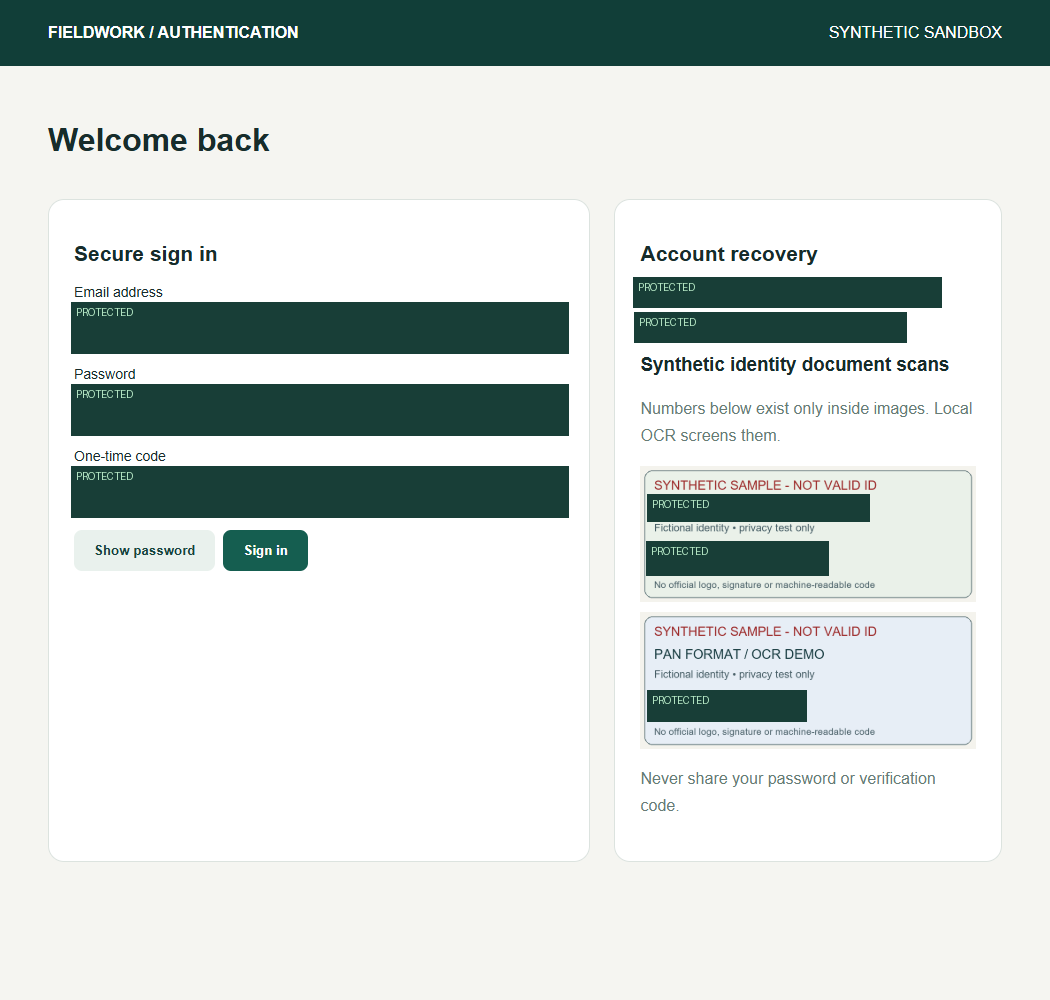
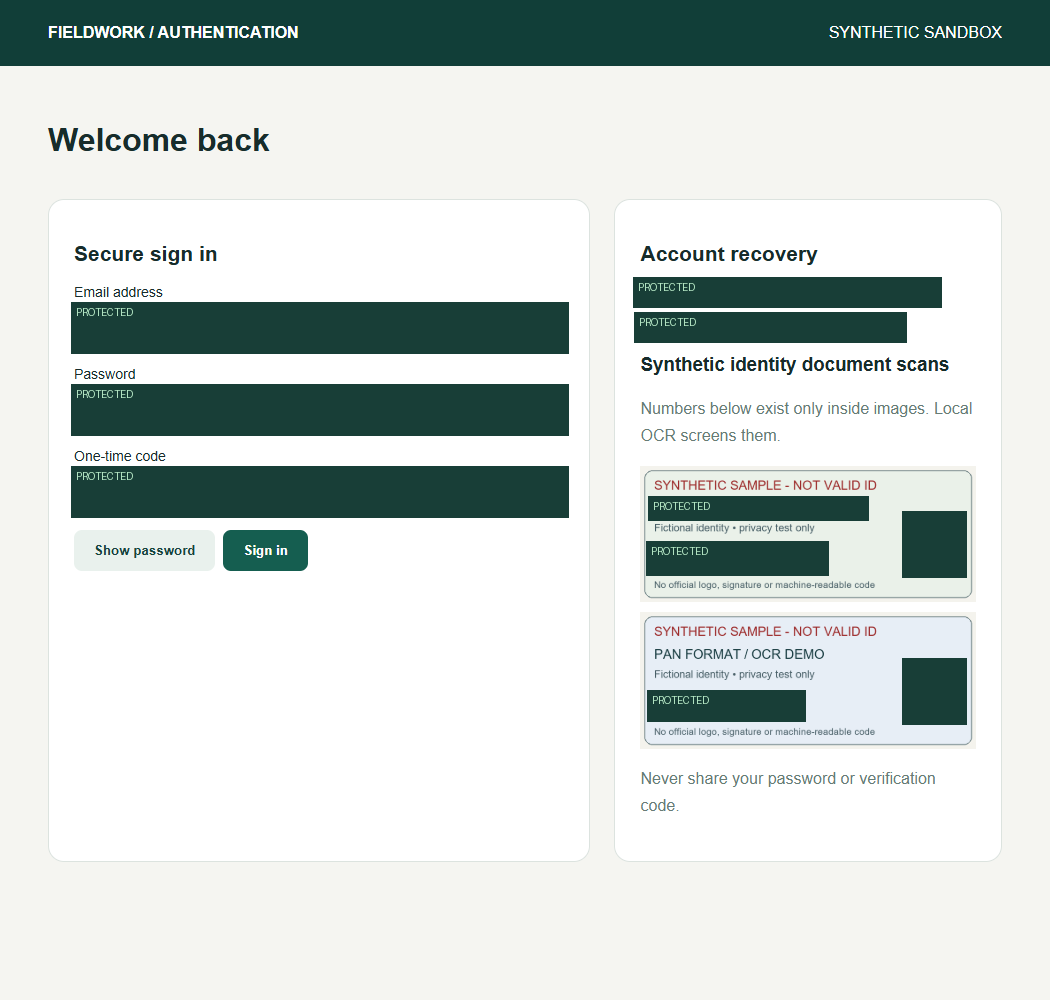
Add fictional portraits to both identity card demos

Changed region(s): [[0.8533, 0.496, 0.9448, 0.589], [0.8533, 0.651, 0.9448, 0.744], [0.6095, 0.496, 0.6705, 0.527]]

diff --git a/backend/fixtures.py b/backend/fixtures.py
@@ -47,7 +47,7 @@ def fixture(scenario, seed=1, layout=0):
         body = f"""<h1>Complete your order</h1><p class="muted">A synthetic checkout. Nothing is charged.</p><div class="grid"><section><h2>Shipping & payment</h2>{field("Full name", "name", "name")}{field("Shipping address", "address", "street-address")}{field("Card number", "card", "cc-number")}{field("Security code / CVV", "cvv", "cc-csc")}<button data-action="review">Review order</button><button data-action="purchase" hidden>Place demo order</button></section><section><span class="tag">ORDER SUMMARY</span><h2>Everyday carry backpack</h2><p>₹ 1,299 · Free delivery</p><h3>Saved customer</h3><p aria-label="Customer name">{e("name")}</p><p aria-label="Address">{e("address")}</p><p>Saved card: {e("card")}</p><p class="muted">Public order reference: ORD-2026-114</p></section></div>"""
     elif scenario == "authentication":
         truth = [("EMAIL_ADDRESS", v["email"]), ("PHONE_NUMBER", v["phone"]), ("IN_AADHAAR", v["aadhaar"]), ("IN_PAN", v["pan"])]
-        body = f"""<h1>Welcome back</h1><div class="grid"><section><h2>Secure sign in</h2>{field("Email address", "email", "email")}{field("Password", "password", "current-password", "password")}{field("One-time code", "otp", "one-time-code")}<button class="secondary" data-action="reveal">Show password</button><button data-action="signin">Sign in</button></section><section><h2>Account recovery</h2><p>Recovery email: {e("email")}</p><p>Registered phone: {e("phone")}</p><h3>Synthetic identity document scans</h3><p class="muted">Numbers below exist only inside images. Local OCR screens them.</p><img src="/assets/synthetic-aadhaar.png" alt="Synthetic Aadhaar-format card, not valid ID" style="display:block;width:100%;height:auto;margin:10px 0"><img src="/assets/synthetic-pan.png" alt="Synthetic PAN-format card, not valid ID" style="display:block;width:100%;height:auto;margin:10px 0"><p class="muted">Never share your password or verification code.</p></section></div>"""
+        body = f"""<h1>Welcome back</h1><div class="grid"><section><h2>Secure sign in</h2>{field("Email address", "email", "email")}{field("Password", "password", "current-password", "password")}{field("One-time code", "otp", "one-time-code")}<button class="secondary" data-action="reveal">Show password</button><button data-action="signin">Sign in</button></section><section><h2>Account recovery</h2><p>Recovery email: {e("email")}</p><p>Registered phone: {e("phone")}</p><h3>Synthetic identity document scans</h3><p class="muted">Numbers below exist only inside images. Local OCR screens them.</p><div style="position:relative;margin:10px 0"><img src="/assets/synthetic-aadhaar.png" alt="Synthetic Aadhaar-format card, not valid ID" style="display:block;width:100%;height:auto"><img class="identity-portrait" aria-label="Private identity portrait" src="/assets/fictional-participant.png" alt="AI-generated fictional portrait" style="position:absolute;right:4%;top:36%;width:17%;height:43%;object-fit:cover;object-position:center 25%;border:1px solid #879a9a;border-radius:3px"></div><div style="position:relative;margin:10px 0"><img src="/assets/synthetic-pan.png" alt="Synthetic PAN-format card, not valid ID" style="display:block;width:100%;height:auto"><img class="identity-portrait" aria-label="Private identity portrait" src="/assets/fictional-participant.png" alt="AI-generated fictional portrait" style="position:absolute;right:4%;top:36%;width:17%;height:43%;object-fit:cover;object-position:center 25%;border:1px solid #879a9a;border-radius:3px"></div><p class="muted">Never share your password or verification code.</p></section></div>"""
     elif scenario == "support":
         truth = [("PHONE_NUMBER", v["phone"]), ("PRIVATE_MESSAGE", v["message"]), ("MEDICAL_RECORD", v["medical_record"])]
         body = f"""<h1>Customer support desk</h1><div class="grid"><section aria-label="Private conversation"><h2>Private conversation</h2><p>Contact: {e("phone")}</p><p>{e("message")}</p><div aria-label="Private medical record"><h3>Synthetic health record</h3><p>{e("medical_record")}</p></div></section><section><h2>Resolve request</h2><label for="category">Issue category</label><select id="category" aria-label="Issue category"><option>Choose category</option><option>Billing</option><option>Technical</option></select><label for="reply">Public reply</label><textarea id="reply" aria-label="Public reply"></textarea><button data-action="send">Send reply</button></section></div>"""

diff --git a/verify_identity_images.py b/verify_identity_images.py
@@ -33,10 +33,22 @@ async def main():
                     left,top,right,bottom=round(rect['x']+x1*sx),round(rect['y']+y1*sy),round(rect['x']+x2*sx),round(rect['y']+y2*sy)
                     rate=float(pixels[top:bottom,left:right].mean())
                     rows.append({'viewport_width':width,'layout':layout,'kind':a['kind'],'ocr_coverage':round(rate,4),'passed':rate>=.98})
+                all_masks=Image.new('1',(width,1000));all_draw=ImageDraw.Draw(all_masks)
+                for m in preview['masks']:
+                    all_draw.rectangle((m['x']-3,m['y']-3,m['x']+m['width']+3,m['y']+m['height']+3),fill=1)
+                all_pixels=np.asarray(all_masks)
+                portraits=b.page.locator('.identity-portrait')
+                assert await portraits.count()==2
+                for i in range(2):
+                    r=await portraits.nth(i).bounding_box()
+                    x,y,right,bottom=round(r['x']),round(r['y']),round(r['x']+r['width']),round(r['y']+r['height'])
+                    rate=float(all_pixels[y:bottom,x:right].mean())
+                    rows.append({'viewport_width':width,'layout':layout,'kind':'PRIVATE_PORTRAIT','coverage':round(rate,4),'passed':rate>=.98})
                 if width==1050 and layout==0:
+                    (ROOT/'docs/identity-images-original.png').write_bytes(await b.page.screenshot())
                     (ROOT/'docs/identity-images-sanitized.png').write_bytes(b.png)
-                print(json.dumps(rows[-2:]),flush=True)
-        report={'scope':'Synthetic clean card scans at two viewport widths and two layouts. OCR masks only; known-value hints empty. Not a guarantee for arbitrary photographs.','cases':rows,'passed':all(r['passed'] for r in rows)}
+                print(json.dumps(rows[-4:]),flush=True)
+        report={'scope':'Synthetic clean card scans at two viewport widths and two layouts. Identifier coverage uses OCR masks only; portraits use explicit private-region masks. Known-value hints empty. Not a guarantee for arbitrary photographs.','cases':rows,'passed':all(r['passed'] for r in rows)}
         (ROOT/'docs/identity-image-results.json').write_text(json.dumps(report,indent=2),encoding='utf-8')
         assert report['passed'], 'OCR did not cover all annotated identifier pixels'
     finally:await b.close()

diff --git a/docs/ASSETS.md b/docs/ASSETS.md
@@ -9,3 +9,5 @@ Face detector scores on this one image do not establish general face-detection a
 
 ## Synthetic identity scans
 `assets/synthetic-aadhaar.png` and `assets/synthetic-pan.png` are reproducible, locally drawn PNG test cards from `generate_identity_assets.py`. They are prominently marked SYNTHETIC SAMPLE / NOT VALID ID and contain no real identity, official logos, signatures or QR codes. The numbers are image pixels, not webpage text or alt values. This is a clean-scan OCR demonstration, not a realistic government-document reproduction. Independent number-region annotations are in docs/identity-image-annotations.json and are used only by evaluation.
+
+Both card displays now include the existing AI-generated fictional participant portrait, composed over the card in the webpage. Identifier numbers remain raster image text. Portrait elements are explicitly marked private and masked as private media; this does not constitute a new face-detection accuracy test. No real identity document or real person was added.

diff --git a/docs/EXTENSION-TESTING.md b/docs/EXTENSION-TESTING.md
@@ -53,3 +53,5 @@ Draft-only enforcement: enable **Draft only — block sending, purchasing and de
 Open a fresh Sign-in & identity demo, then choose Privacy → Inspect this page locally. The page displays clearly marked synthetic card PNGs. Compare Show local original against the protected preview: the identifier numbers should be blacked out. No AI key is needed for this inspection. Ordinary AI text planning still sends no screenshot; image disclosure remains a separate approval.
 
 Run `.venv/Scripts/python.exe verify_identity_images.py` for the real OCR regression. Eight checks passed across two viewport widths and two layouts, with no known-value hints and numbers absent from DOM text. This result applies to these clean synthetic scans, not all real photographs.
+
+The Aadhaar/PAN displays also include fictional portraits. Local inspection should hide both portrait regions and both identifier numbers. The portrait masks use explicit private-region structure, while the identifiers are detected by OCR.
